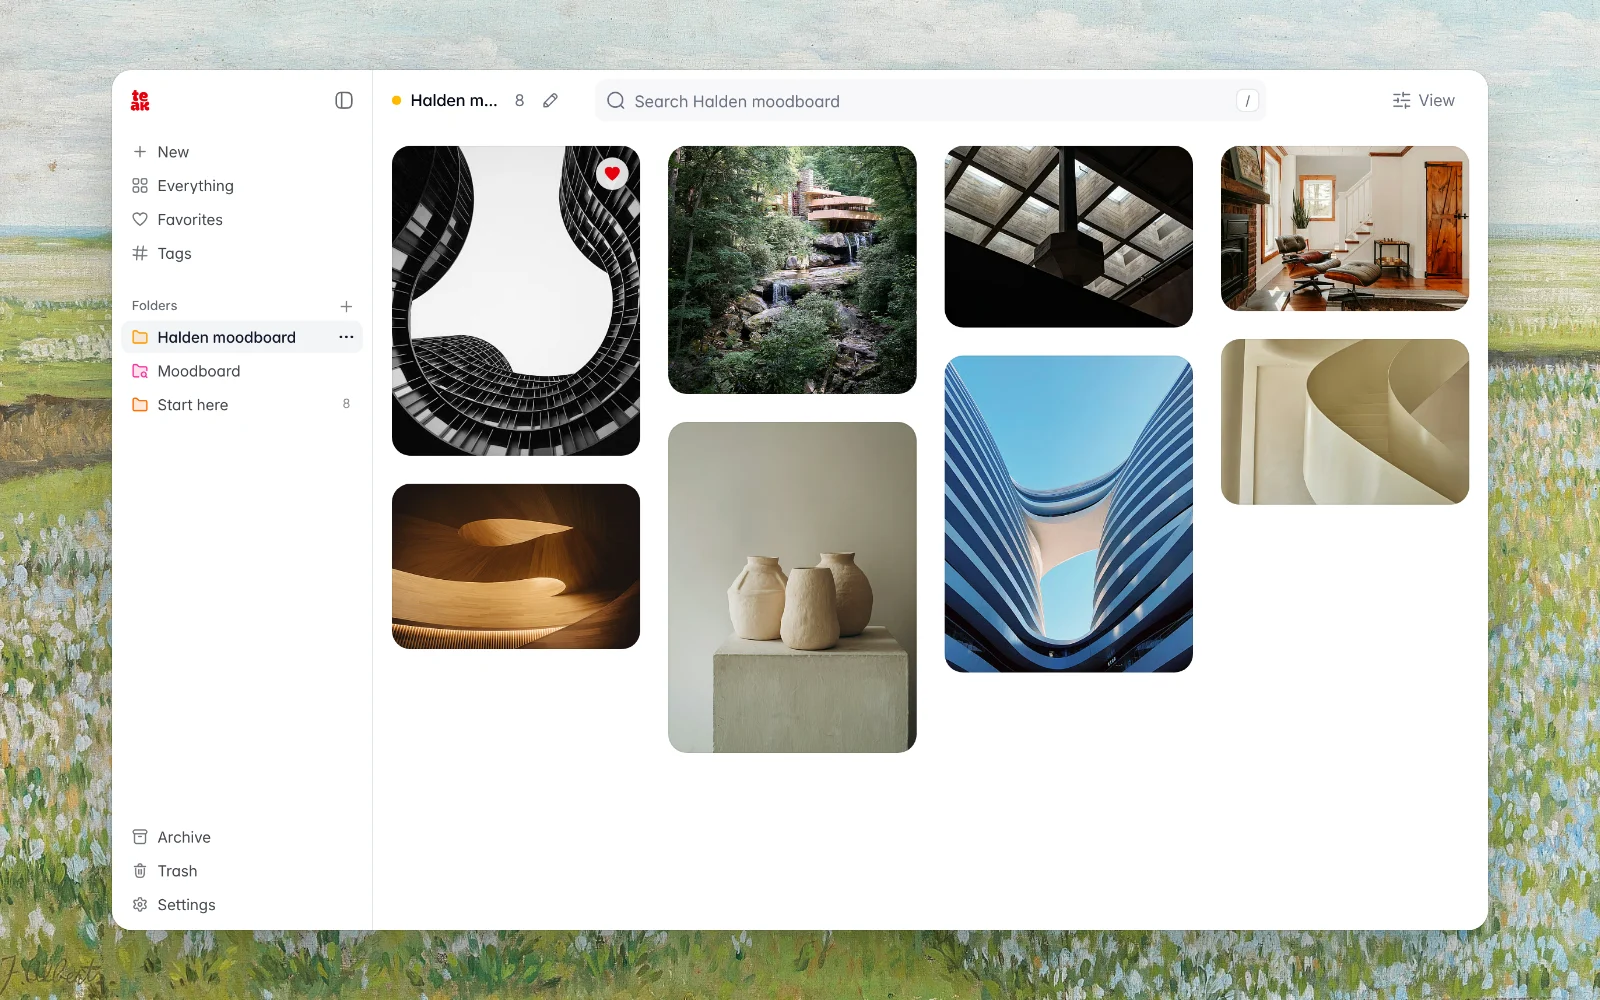
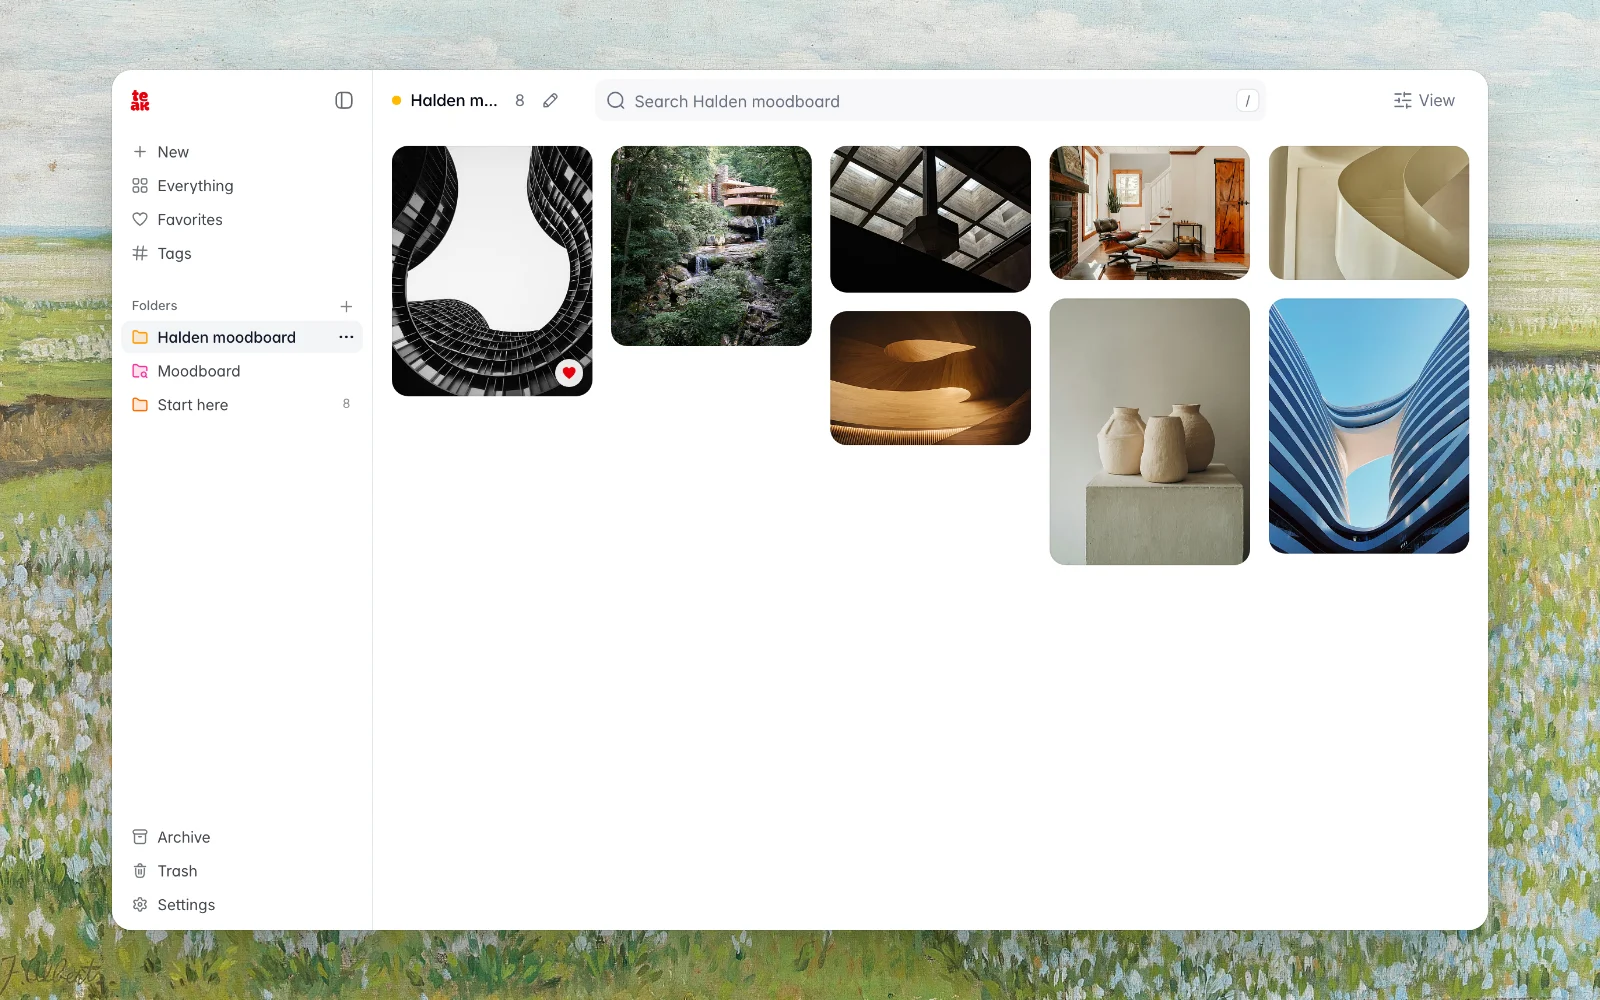
docs: re-render images for the simpler card grid
Re-captures the docs and home page images that show grid cards
(library, search, card types, View menu, pinned cards, folder, Revisit,
the WebMCP mock and the home page library and search), so they show
the footer inside link cards, caption-free tiles, the marks corner and
the View menu without Density. The pinned cards image's alt text no
longer mentions a pin in each corner.

Changed region(s): [[0.2188, 0.124, 0.9375, 0.775]]

diff --git a/scripts/docs-assets/shots.ts b/scripts/docs-assets/shots.ts
@@ -95,7 +95,7 @@ export const SHOTS: Shot[] = [
     name: "pinned-cards",
     kind: "web",
     layout: "window",
-    alt: "The Pinned row above the grid, with three pinned cards, each with a pin in its corner",
+    alt: "The Pinned row above the grid, with three pinned cards and no captions",
   },
   {
     name: "folder",
